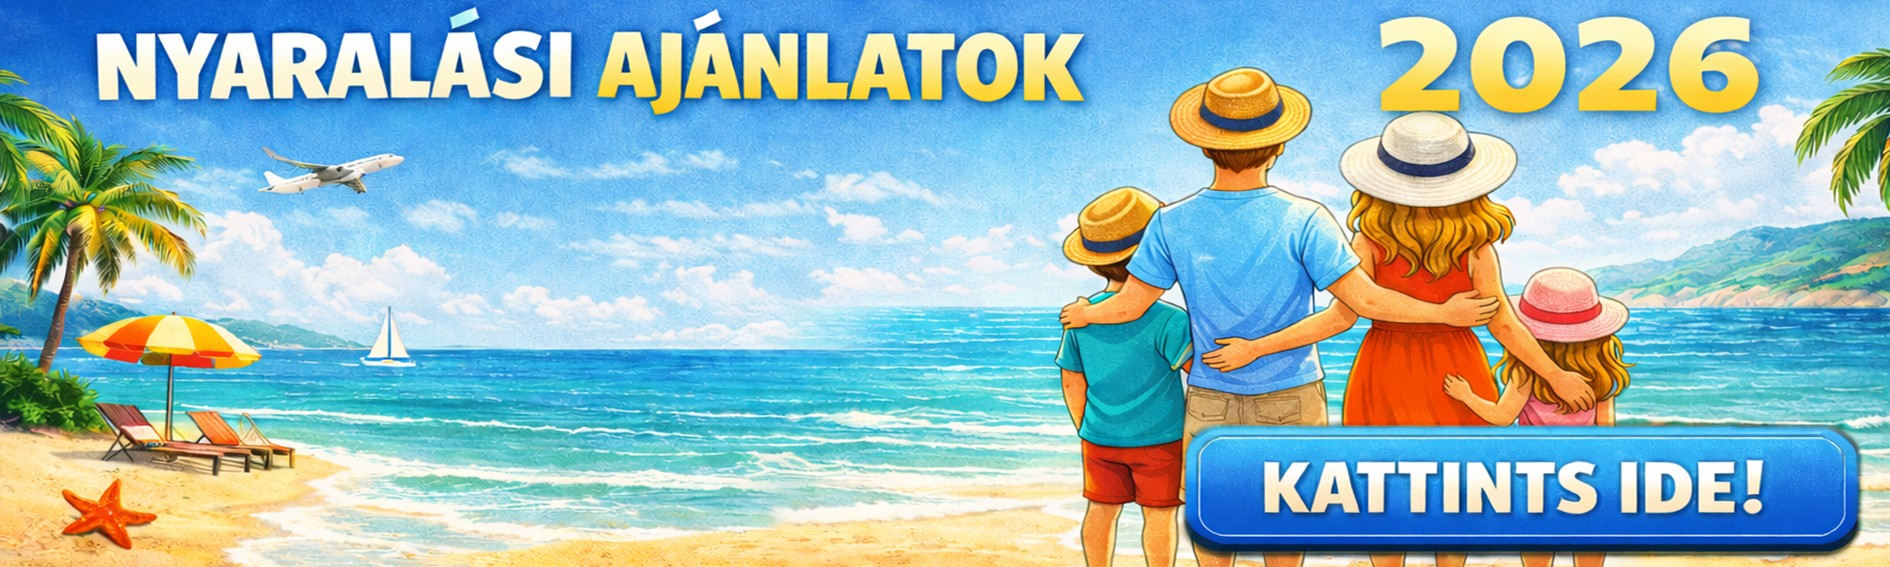
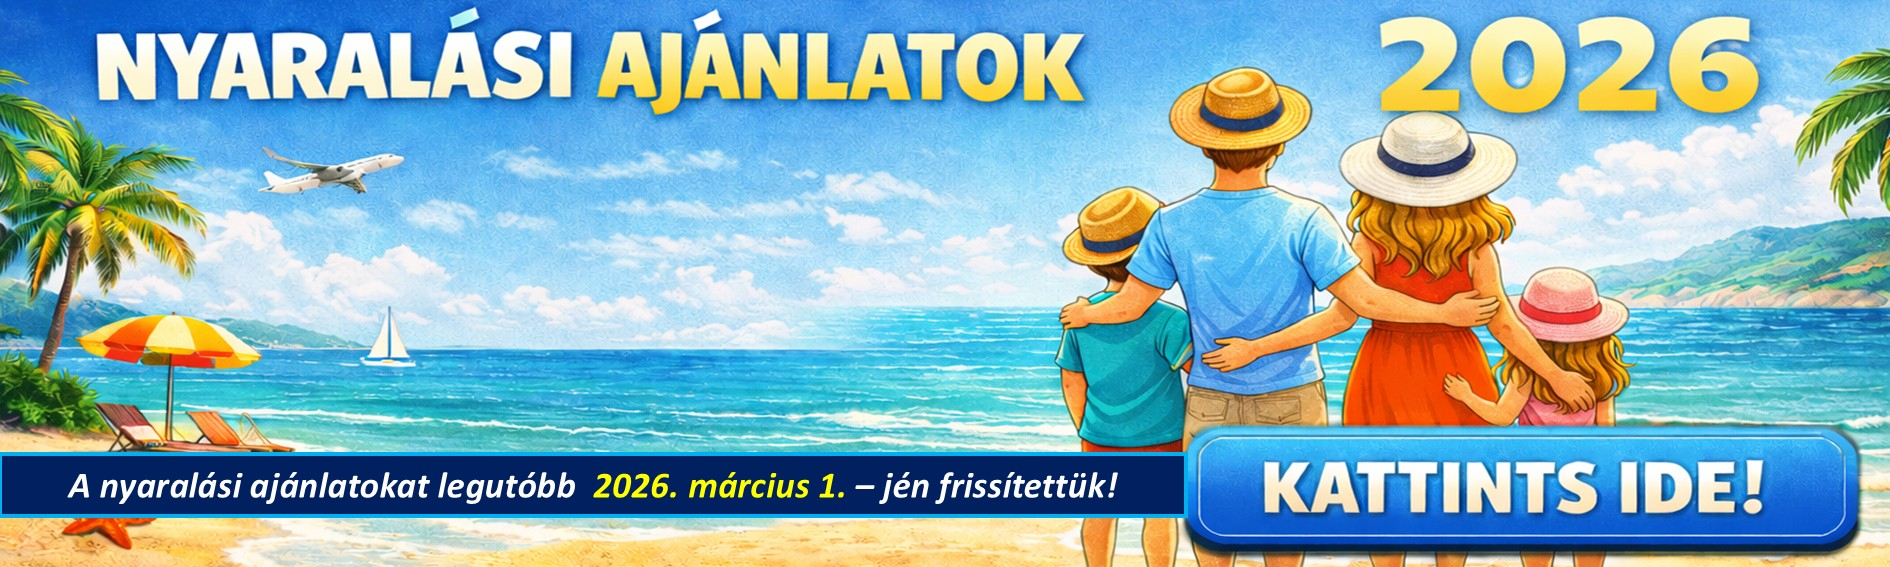
Add files via upload

Changed region(s): [[0.0, 0.7795, 0.6556, 0.9295]]

diff --git a/nyaralasiajanlatok.html b/nyaralasiajanlatok.html
@@ -108,10 +108,10 @@ h4 {
     <!-----
         <h4>ELÉRHETŐ AJÁNLATOK SZÁMA: 12 DB</h4>
         ------>
-        <h4>Utoljára frissítve: 2026. január 29.</h4>
-        <p style="color: white; text-align: center; font-size: 12px;">Az oldalon látható ajánlatok a <span style="color: yellow;"><a href="https://www.booking.com/"><i>https://www.booking.com/</i></a></span> és a <span style="color: yellow;"><a href="https://www.skyscanner.hu/"><i>https://www.skyscanner.hu/</i></a></span> oldaláról származnak. <br> A jelen oldalon megjelenő árak az idő elteltével folyamatosan ingadozhatnak, változhatnak ezért mindenképp érdemes a képekre való kattintás után tájékozódni az éppen aktuális árakról! <br><br><span style="color: yellow;"><i>Az oldalon olyan ajánlatok szerepelnek amelyek 400.000 - Ft - 700.000 - Ft között vannak a repjeggyel és a szállással együtt!</i></span></p>
+        <h4>Utoljára frissítve: 2026. március 1.</h4>
+        <p style="color: white; text-align: center; font-size: 12px;">Az oldalon látható ajánlatok a <span style="color: yellow;"><a href="https://www.booking.com/"><i>https://www.booking.com/</i></a></span> és a <span style="color: yellow;"><a href="https://www.skyscanner.hu/"><i>https://www.skyscanner.hu/</i></a></span> oldaláról származnak. <br> A jelen oldalon megjelenő árak az idő elteltével folyamatosan ingadozhatnak, változhatnak ezért mindenképp érdemes a képekre való kattintás után tájékozódni az éppen aktuális árakról! <br><br><span style="color: yellow;"><i>Az oldalon olyan ajánlatok szerepelnek amelyek 400.000 - Ft - 600.000 - Ft között vannak a repjeggyel és a szállással együtt!</i></span></p>
 
-        <h4 style="color: yellow;"><u>TERVEZETT DESZTINÁCIÓK</u><br> <br> Santorini, Ciprus, Szkiáthosz, Zakynthos Zakopane</h4>
+        <h4 style="color: yellow;"><u>TERVEZETT DESZTINÁCIÓK</u><br> <br> Santorini, Ciprus, Törökország</h4>
 
         <div style="color: white; text-align: center;">--------------------------------------------------</div>
         <h1 style="text-align: center; color: white;">SANTORINI</h1>
@@ -153,6 +153,23 @@ h4 {
             <img src="nya3.JPG" alt="Kép 2">
         </a> <br><br>
 
+                <h1 style="text-align: center; color: white;">TÖRÖKORSZÁG</h1>
+       <div class="gomb-kontener">
+            <a href="https://www.skyscanner.hu/transport/repuloutak/buda/ayt/260814/260818/?adultsv2=3&cabinclass=economy&childrenv2=15&ref=home&rtn=1&outboundaltsenabled=false&inboundaltsenabled=false&preferdirects=false" class="gomb">REPJEGY AJÁNLATOK</a> 
+        </div> <br>
+
+            <a href="https://www.booking.com/hotel/tr/marine-apart-muratpasa.hu.html?aid=2311236&label=hu-hu-booking-mobile-_9td8vcLEKH_6wpGG%2Ai7TwSM652796014995%3Apl%3Ata%3Ap1%3Ap2%3Aac%3Aap%3Aneg%3Afi%3Atikwd-65526620%3Alp9105603%3Ali%3Adem%3Adm&sid=fd0bb4b1e1134cfed31cc7c338e2854d&age=15&all_sr_blocks=1561052308_428602044_4_1_0_1344909&checkin=2026-08-14&checkout=2026-08-18&dest_id=-735347&dest_type=city&dist=0&group_adults=3&group_children=1&hapos=1&highlighted_blocks=1561052308_428602044_4_1_0_1344909&hpos=1&matching_block_id=1561052308_428602044_4_1_0_1344909&no_rooms=1&req_adults=3&req_age=15&req_children=1&room1=A%2CA%2CA%2C15&sb_price_type=total&sr_order=popularity&sr_pri_blocks=1561052308_428602044_4_1_0_1344909_44620&srepoch=1772294979&srpvid=df5e719f5c5a01c4&type=total&ucfs=1" class="kep-link">
+            <img src="nyt1.jpg" alt="Kép 2"></a> <br><br>
+
+            <a href="https://www.booking.com/hotel/tr/old-town-point-amp-spa-antalya.hu.html?aid=2311236&label=hu-hu-booking-mobile-_9td8vcLEKH_6wpGG%2Ai7TwSM652796014995%3Apl%3Ata%3Ap1%3Ap2%3Aac%3Aap%3Aneg%3Afi%3Atikwd-65526620%3Alp9105603%3Ali%3Adem%3Adm&sid=fd0bb4b1e1134cfed31cc7c338e2854d&age=15&all_sr_blocks=711242704_353953973_4_1_0_814609&checkin=2026-08-14&checkout=2026-08-18&dest_id=-735347&dest_type=city&dist=0&group_adults=3&group_children=1&hapos=5&highlighted_blocks=711242704_353953973_4_1_0_814609&hpos=5&matching_block_id=711242704_353953973_4_1_0_814609&no_rooms=1&req_adults=3&req_age=15&req_children=1&room1=A%2CA%2CA%2C15&sb_price_type=total&sr_order=popularity&sr_pri_blocks=711242704_353953973_4_1_0_814609_61159&srepoch=1772295038&srpvid=df5e719f5c5a01c4&type=total&ucfs=1" class="kep-link">
+            <img src="nyt2.jpg" alt="Kép 2"></a> <br><br>
+
+            <a href="https://www.booking.com/hotel/tr/rtr-homes-luxury.hu.html?aid=2311236&label=hu-hu-booking-mobile-_9td8vcLEKH_6wpGG%2Ai7TwSM652796014995%3Apl%3Ata%3Ap1%3Ap2%3Aac%3Aap%3Aneg%3Afi%3Atikwd-65526620%3Alp9105603%3Ali%3Adem%3Adm&sid=fd0bb4b1e1134cfed31cc7c338e2854d&age=15&all_sr_blocks=294933601_404422986_4_0_0&checkin=2026-08-14&checkout=2026-08-18&dest_id=-735347&dest_type=city&dist=0&group_adults=3&group_children=1&hapos=13&highlighted_blocks=294933601_404422986_4_0_0&hpos=13&matching_block_id=294933601_404422986_4_0_0&no_rooms=1&req_adults=3&req_age=15&req_children=1&room1=A%2CA%2CA%2C15&sb_price_type=total&sr_order=popularity&sr_pri_blocks=294933601_404422986_4_0_0__49805&srepoch=1772295070&srpvid=df5e719f5c5a01c4&type=total&ucfs=1" class="kep-link">
+            <img src="nyt3.jpg" alt="Kép 2"></a> <br><br>
+        </a> <br><br>
+
+
+    <!-------
         <h1 style="text-align: center; color: white;">ZAKYNTHOS</h1>
 
          <div class="gomb-kontener">
@@ -197,6 +214,6 @@ h4 {
             <img src="nya6.JPG" alt="Kép 2">
         </a> <br><br>
     </div>
-
+------------>
 </body>
 </html>

diff --git a/kiemeltajanlat.html b/kiemeltajanlat.html
@@ -15,6 +15,7 @@
 
         body {
              background: radial-gradient(circle at top, #0b2a4a, #000);
+              min-height: 100vh;
             padding: 20px;
         }
 
@@ -207,6 +208,7 @@
         </div>
   </div>
 
+  <!------
     <div class="card">
         <img src="hoalattiajanlo.jpg" alt="">
         <div class="card-content">
@@ -218,9 +220,7 @@
 <a href="hoalattititok.html" class="card-button">RÉSZLETEKÉRT KATTINTS IDE</a>            
         </div>
     </div>
-
-
 </div>
-
+------->
 </body>
 </html>
